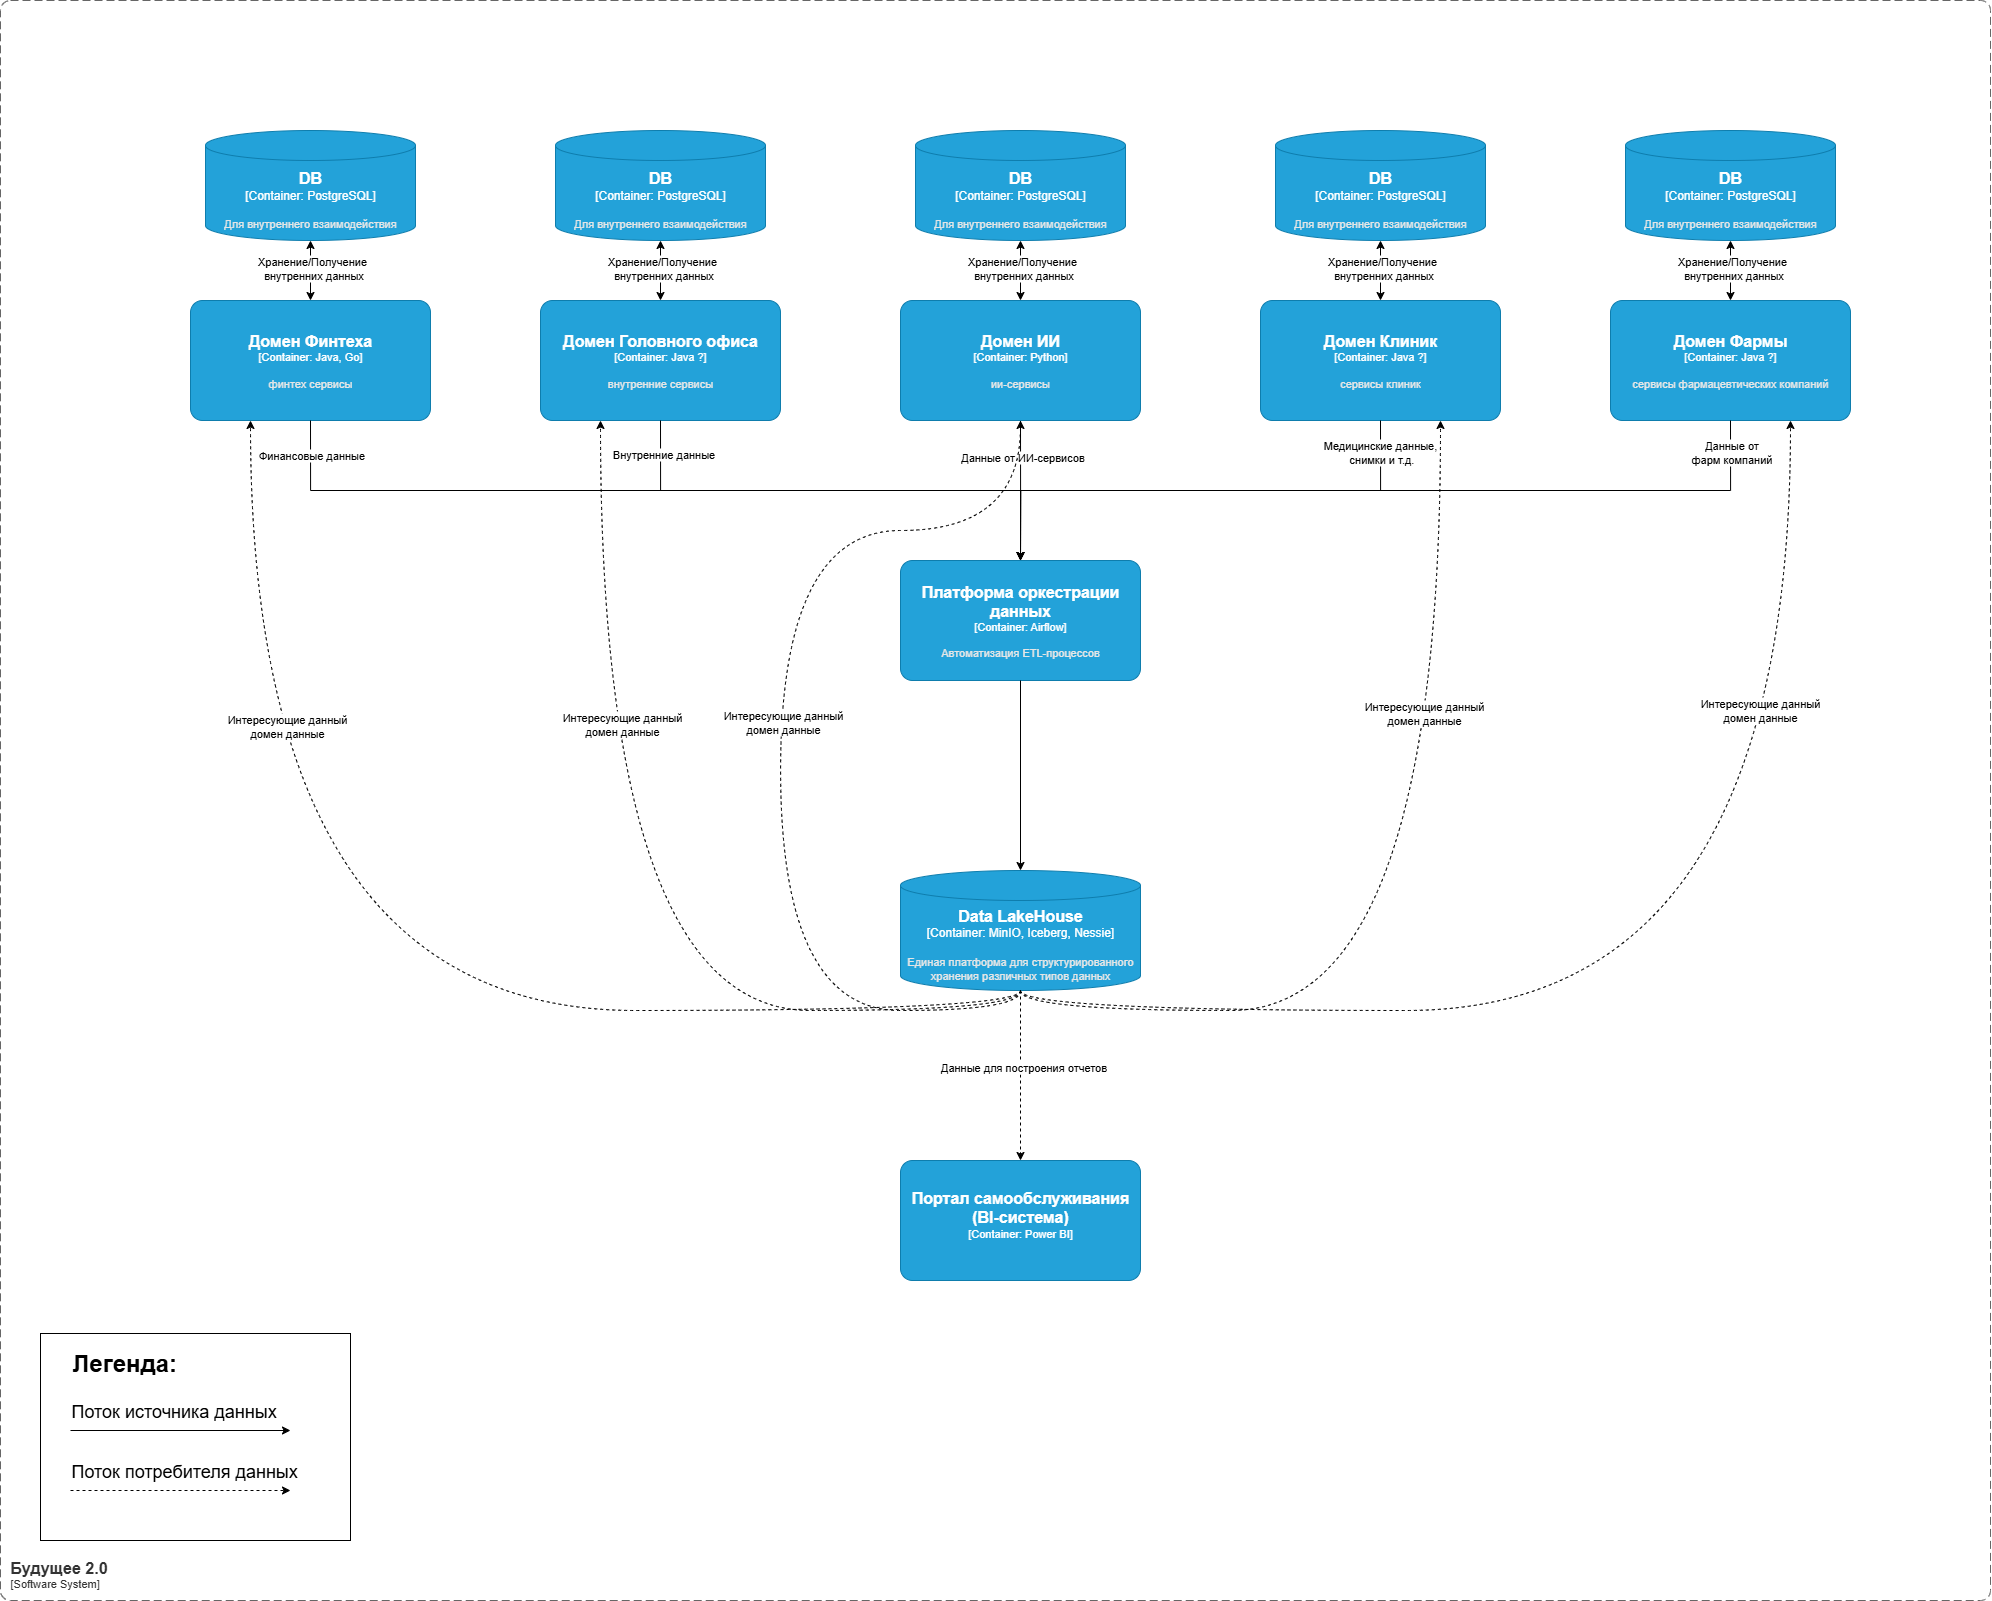
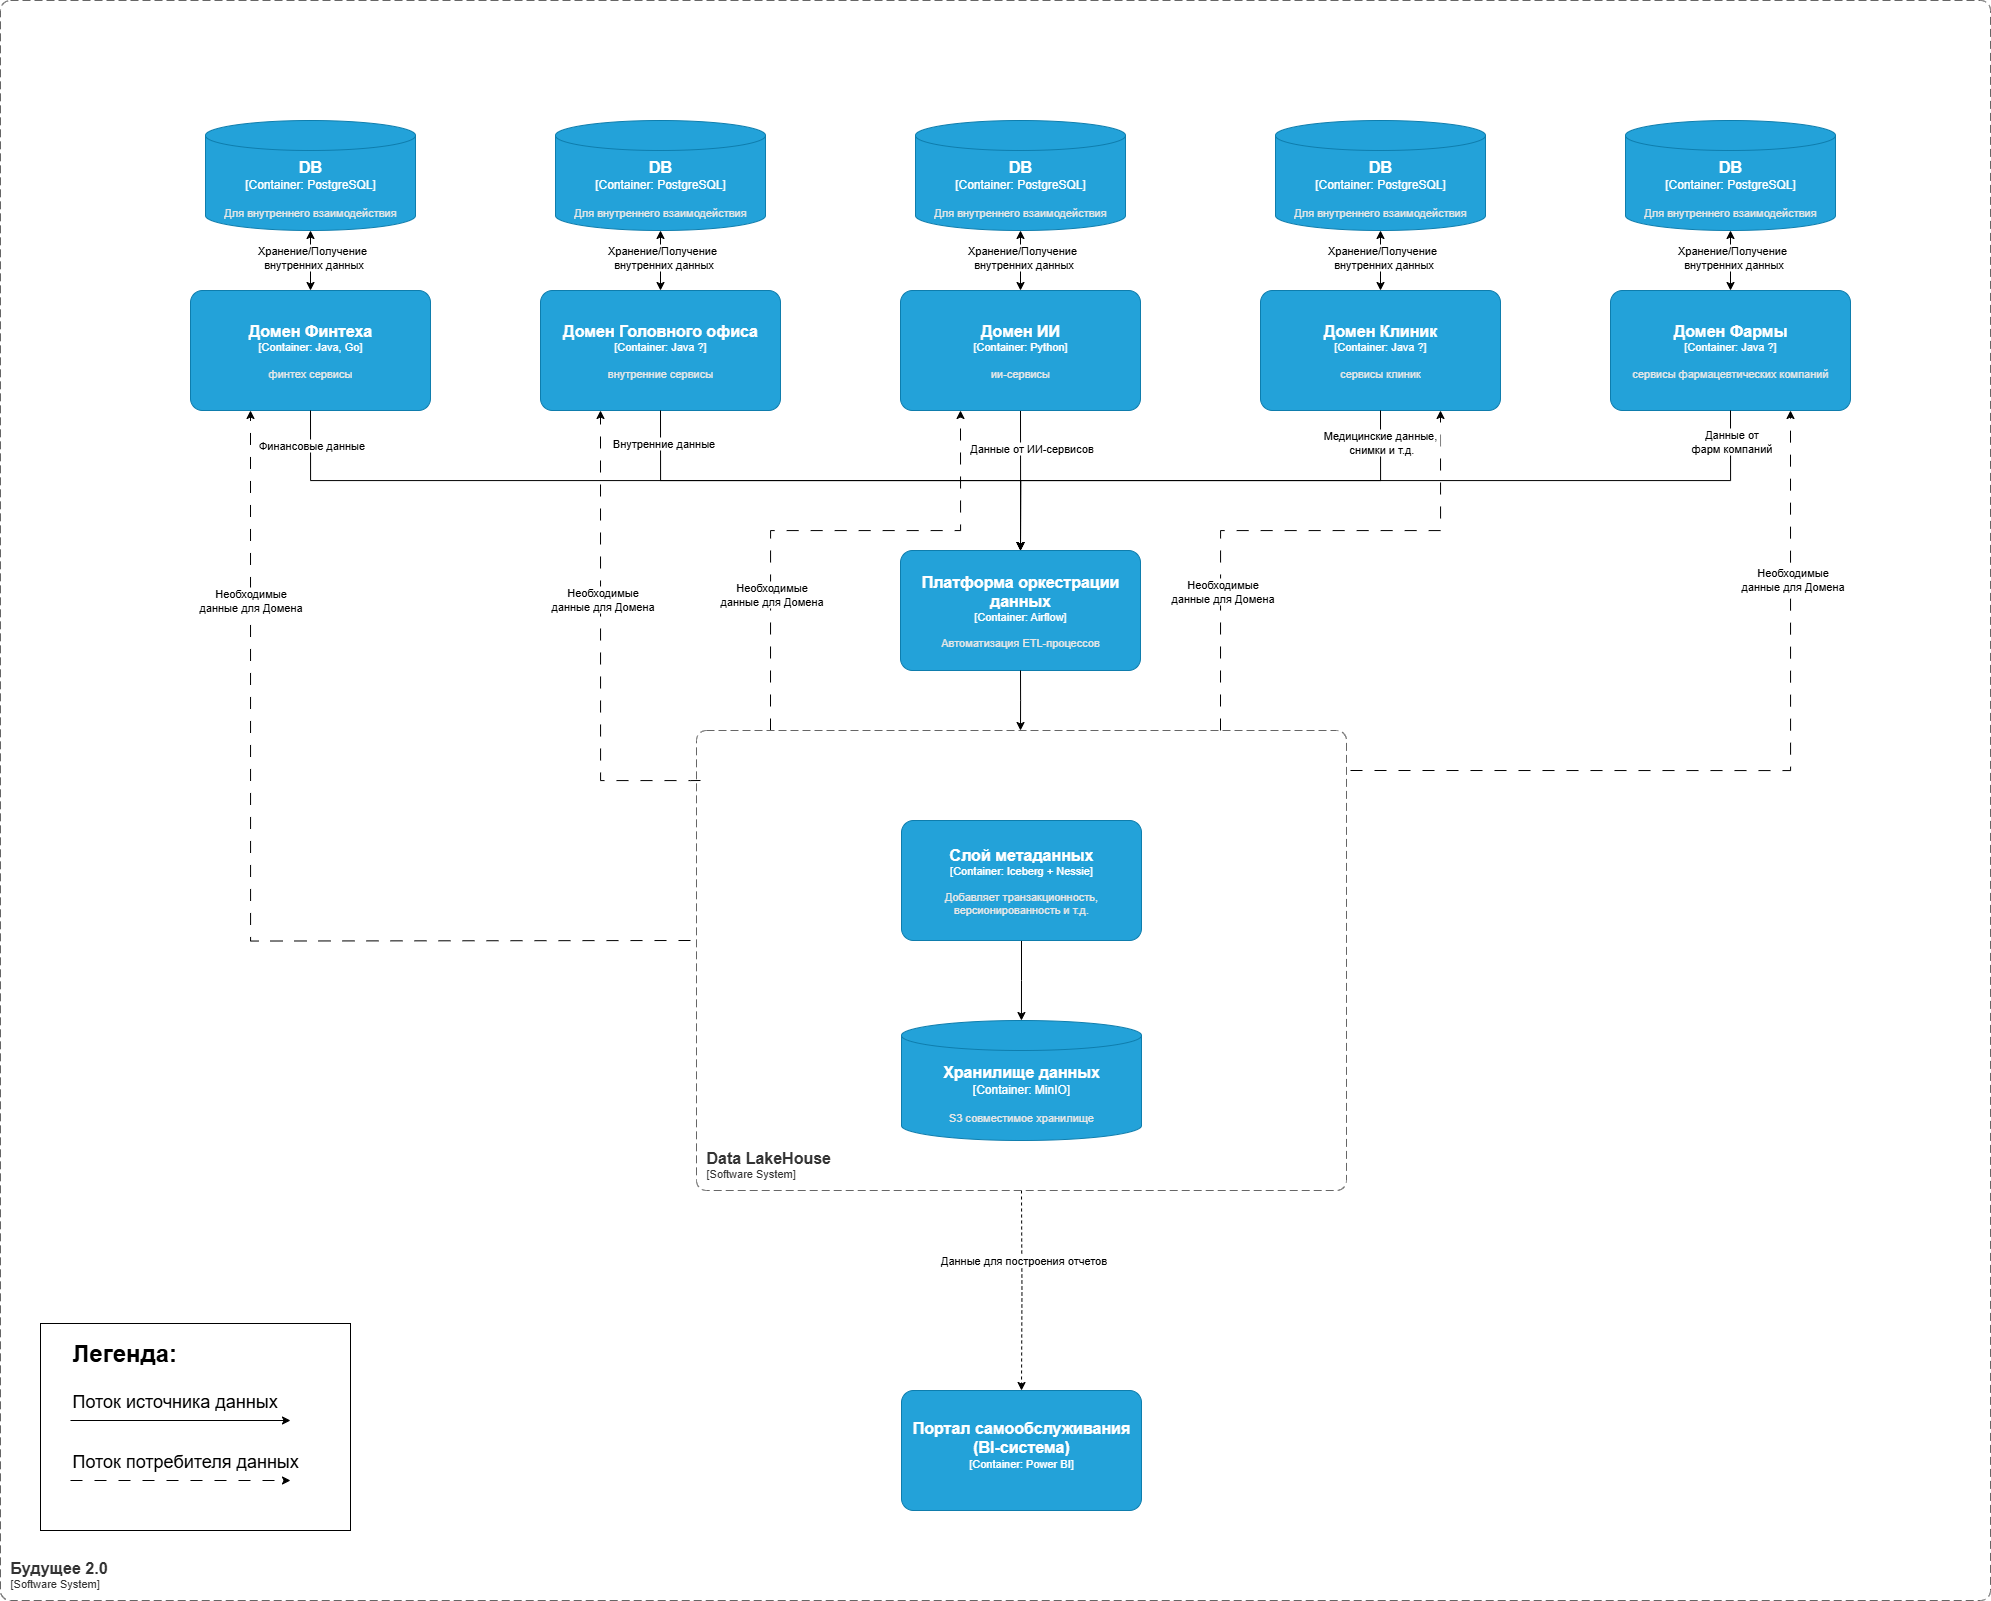
Task 2

diff --git a/Task 2/task2.md b/Task 2/task2.md
@@ -1,0 +1,22 @@
+# Задание 2
+
+## Разделение системы на домены
+
+| Домен                     | Комментарии                                                                                                                               |
+|---------------------------|-------------------------------------------------------------------------------------------------------------------------------------------|
+| **Домен Финтеха**         | Номера счетов, балансов, транзакций, кредитов, баллов, фин. отчеты                                                                        |
+| **Домен Головного офиса** | Данные об орг.структуре, внутренние стандарты и т.д.                                                                                      |
+| **Домен ИИ**              | Прогнозы моделей, обезличенные датасеты и т.д.                                                                                            |
+| **Домен Клиник**          | Мед.карты, расписание, результаты исследований, данные пациентов, данные об услугах, данные о мед. оборудовании                           |
+| **Домен Фармы**           | Данные о производстве лекарств и оборудования, объемы, сроки, склады, персонал. _В последствии может быть разделен на 2 отдельных домена_ |
+
+## Обоснование разделения системы на домены
+Предлагается отказаться от единого централизованного DWH и перейти на Data Mesh. Каждое подразделение становиться ответственным за свои данные, отвечает за их качество и целостность.  
+И предоставляет их другим домена как "товар" через единый каталог в Data LakeHouse. Тем самым мы добиваемся нескольких положительных моментов:
+1. Добавление нового направления в бизнесе никак не затронет другие домены, а благодаря готовой инфраструктуре и стандартам его интеграция будет проходить быстрее и проще
+2. Высокое качество данных, т.к. каждый домен ответственен за "продажу" своих данных и следует единому стандарту внутри компании
+3. Каждый из доменов может "покупать" интересующие его данные, с гарантией того, что эти данные будут качественно подготовлены
+
+## Диаграмма потоков данных
+
+![Диаграмма потоков данных](data_flow_diagram.png)
